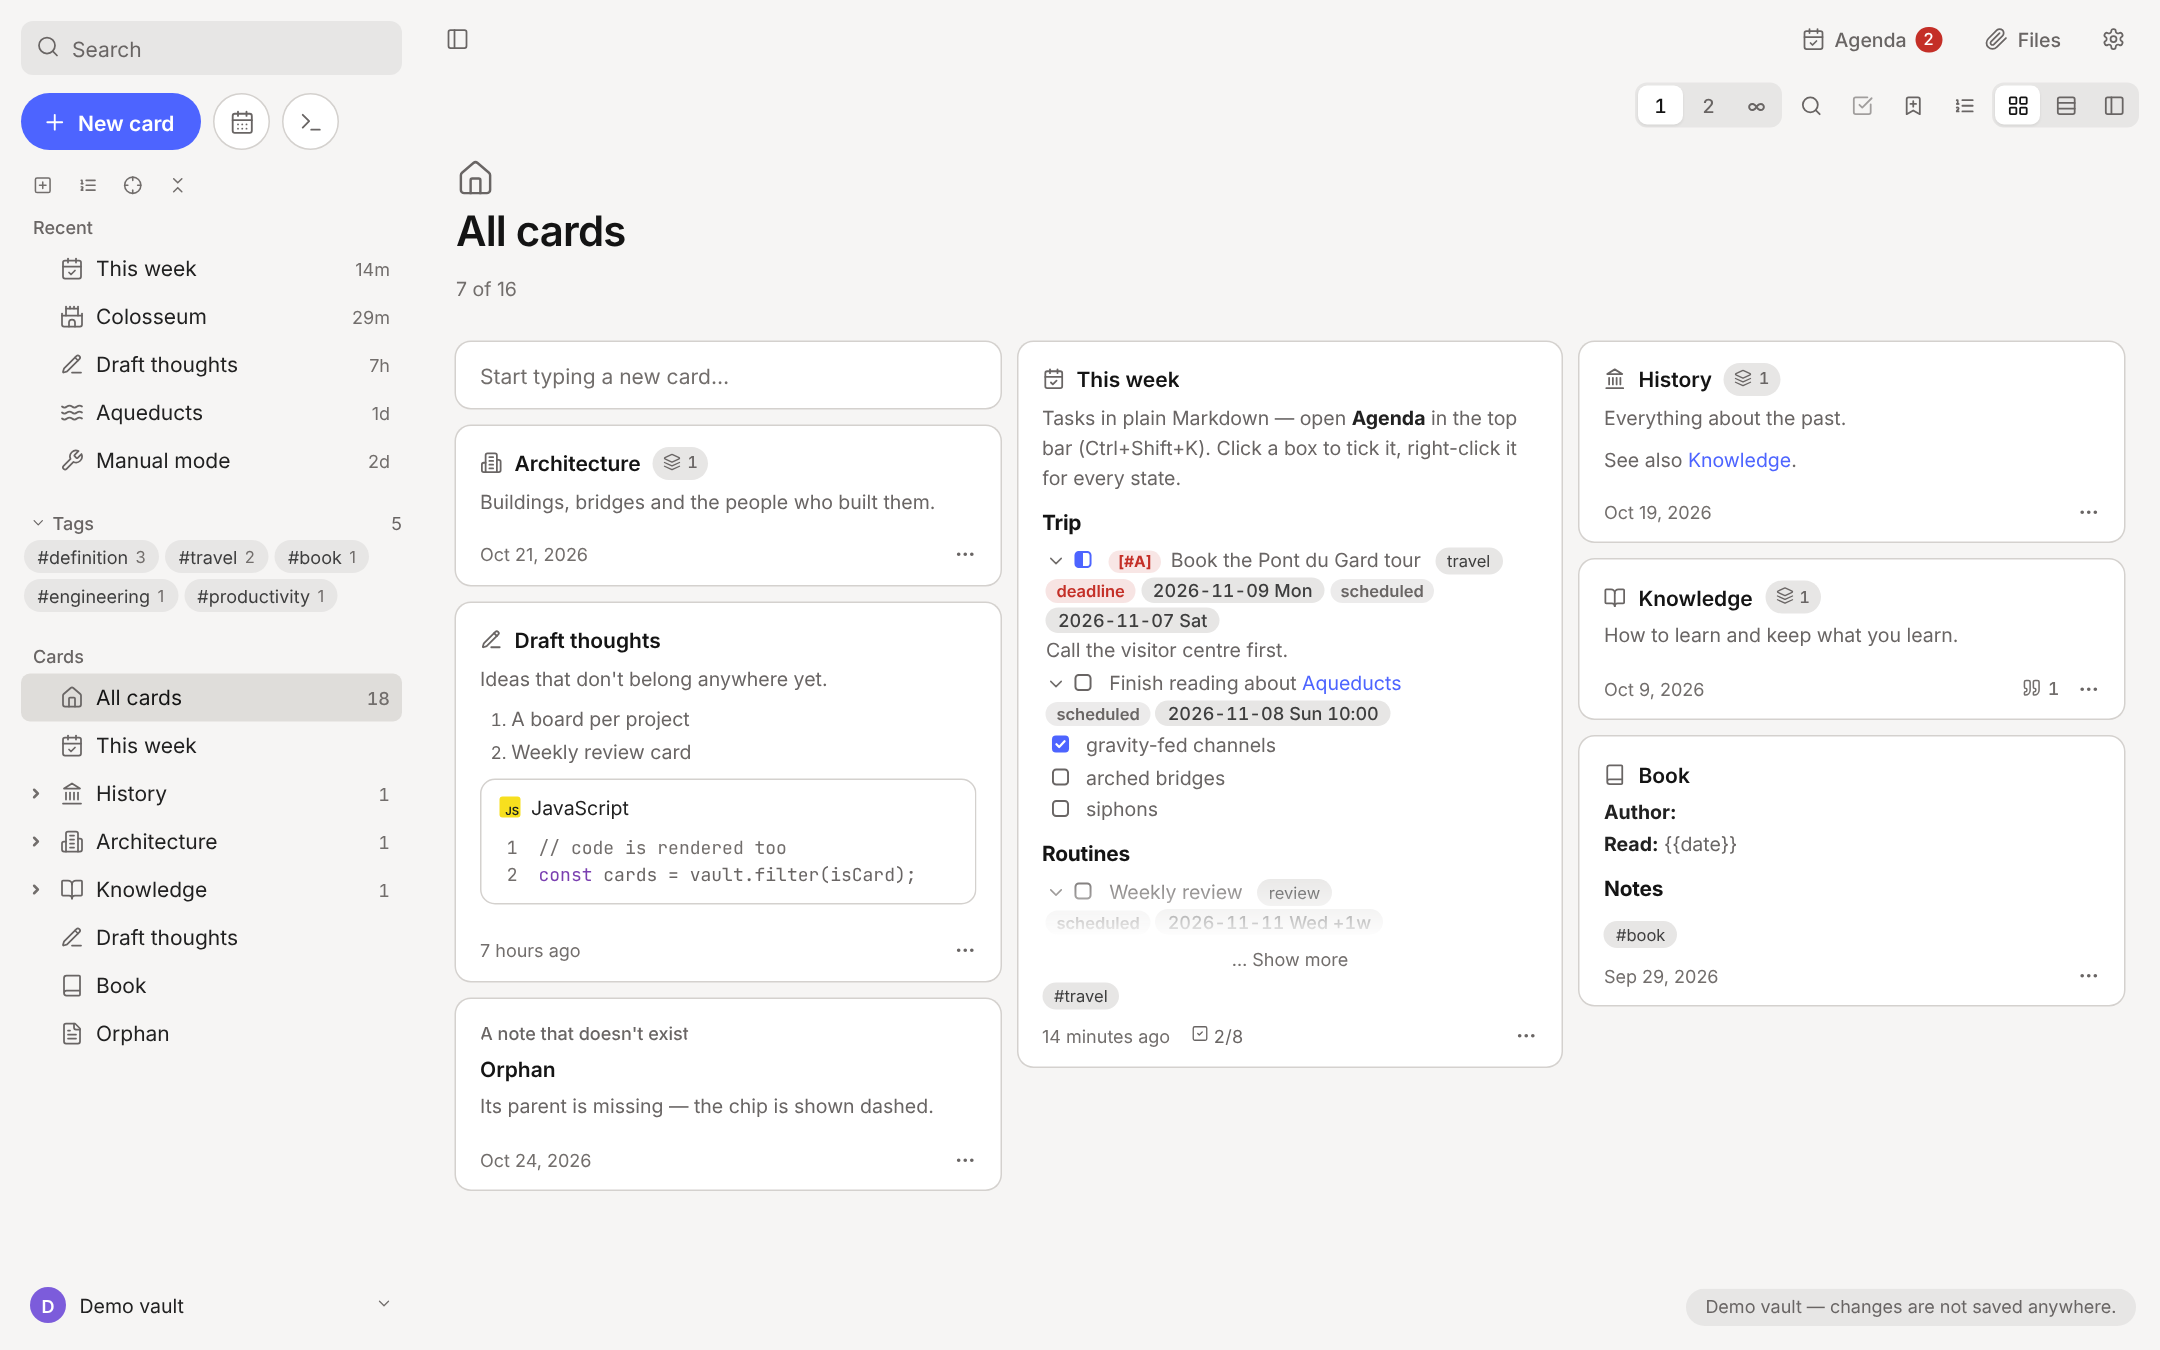
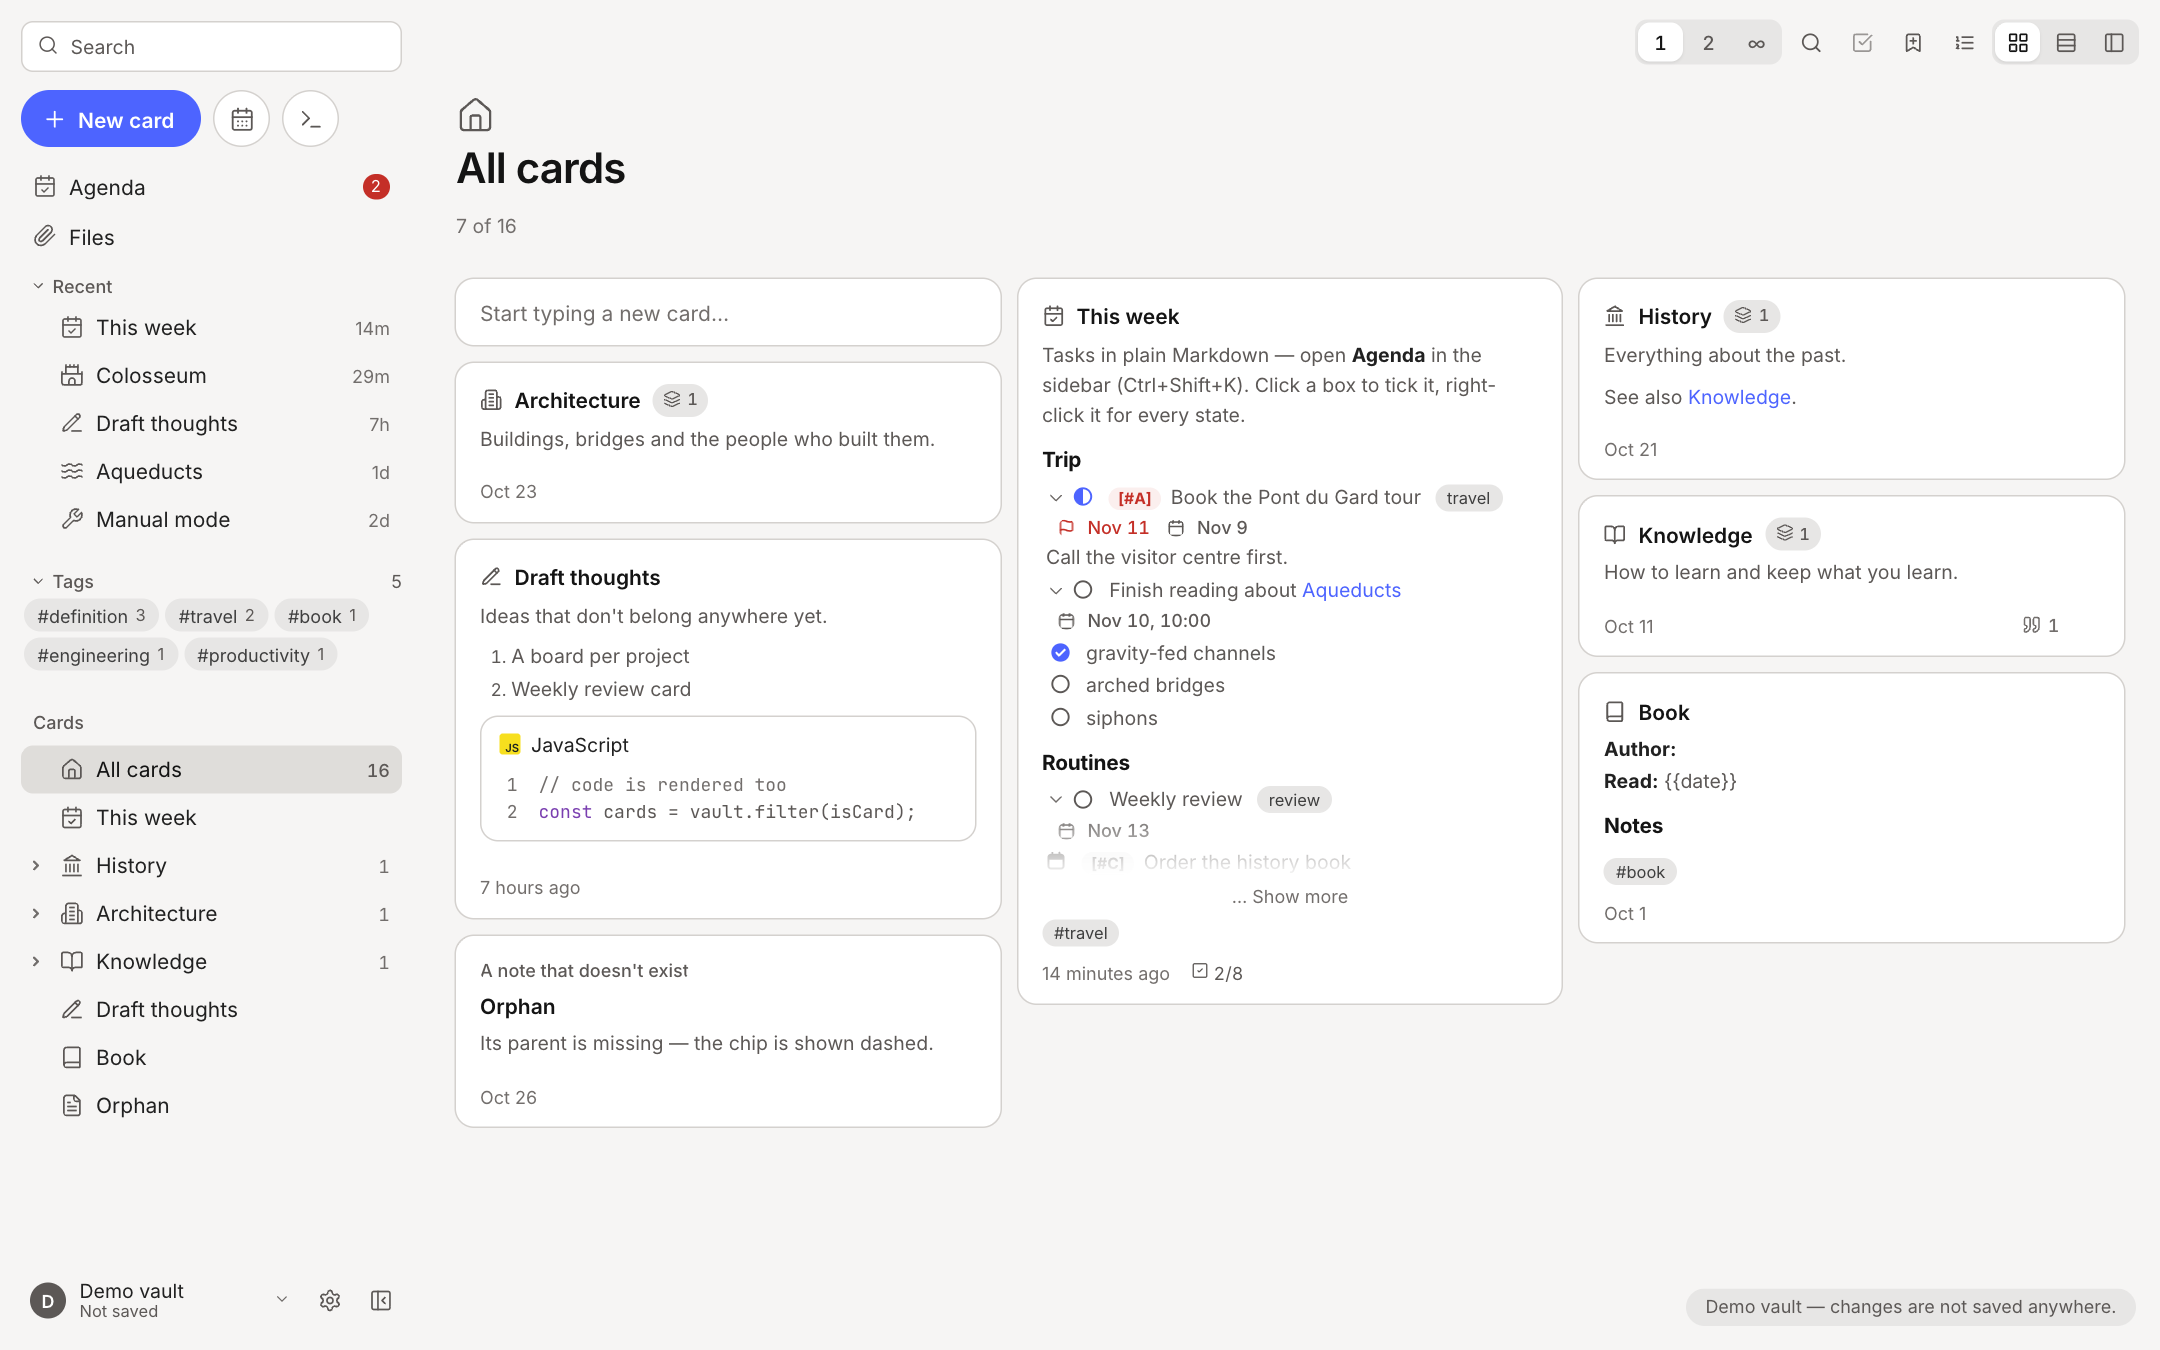
Retake the README screenshots for the new layout
The screenshots show the sidebar without a top bar, the shorter dates
and the new agenda rows. The README and the demo's "This week" card no
longer point to a top bar, and Settings is described as it is now.

diff --git a/web/src/js/ui/welcome.js b/web/src/js/ui/welcome.js
@@ -62,7 +62,7 @@ export function demoVault() {
   note("Back-of-napkin math", `parents:\n  - "[[Terms]]"\nicon: calculator\ntags: [definition]`, `A rough estimate that's good enough to decide whether an idea is worth a closer look.\n\n==Order of magnitude beats precision.==`, 7);
   const day = (n) => { const d0 = new Date(now + n * 86400000); return `${d0.getFullYear()}-${String(d0.getMonth() + 1).padStart(2, "0")}-${String(d0.getDate()).padStart(2, "0")}`; };
   const dts = (n, extra = "") => { const d0 = new Date(now + n * 86400000); return `${day(n)} ${["Sun", "Mon", "Tue", "Wed", "Thu", "Fri", "Sat"][d0.getDay()]}${extra}`; };
-  note("This week", `icon: calendar-check\ncolor: green\norder: 0\ncategory: Week`, `Tasks in plain Markdown — open **Agenda** in the top bar (Ctrl+Shift+K). Click a box to tick it, right-click it for every state.\n\n## Trip\n\n- [/] [#A] Book the Pont du Gard tour :travel:\n  DEADLINE: <${dts(1)}> SCHEDULED: <${dts(-1)}>\n  Call the visitor centre first.\n- [ ] Finish reading about [[Aqueducts]]\n  SCHEDULED: <${dts(0, " 10:00")}>\n  - [x] gravity-fed channels\n  - [ ] arched bridges\n  - [ ] siphons\n\n## Routines\n\n- [ ] Weekly review :review:\n  SCHEDULED: <${dts(3)} +1w>\n- [<] [#C] Order the history book\n- [>] Plan the Rome trip (moved to next month)\n- [-] Renew the old museum pass\n- [x] Set up this vault\n  CLOSED: [${dts(-2, " 18:20")}]\n\n## Calendar\n\n- Lunch with Marta <${dts(0, " 13:00-14:00")}>\n- Museum night <${dts(2, " 19:30")}> #travel\n`, 0.01);
+  note("This week", `icon: calendar-check\ncolor: green\norder: 0\ncategory: Week`, `Tasks in plain Markdown — open **Agenda** in the sidebar (Ctrl+Shift+K). Click a box to tick it, right-click it for every state.\n\n## Trip\n\n- [/] [#A] Book the Pont du Gard tour :travel:\n  DEADLINE: <${dts(1)}> SCHEDULED: <${dts(-1)}>\n  Call the visitor centre first.\n- [ ] Finish reading about [[Aqueducts]]\n  SCHEDULED: <${dts(0, " 10:00")}>\n  - [x] gravity-fed channels\n  - [ ] arched bridges\n  - [ ] siphons\n\n## Routines\n\n- [ ] Weekly review :review:\n  SCHEDULED: <${dts(3)} +1w>\n- [<] [#C] Order the history book\n- [>] Plan the Rome trip (moved to next month)\n- [-] Renew the old museum pass\n- [x] Set up this vault\n  CLOSED: [${dts(-2, " 18:20")}]\n\n## Calendar\n\n- Lunch with Marta <${dts(0, " 13:00-14:00")}>\n- Museum night <${dts(2, " 19:30")}> #travel\n`, 0.01);
   note("Cycle A", `parents:\n  - "[[Cycle B]]"\ncolor: red\nicon: refresh-cw`, `Cards A and B are each other's parents. Depth ∞ must not hang.`, 10);
   note("Cycle B", `parents:\n  - "[[Cycle A]]"\nicon: refresh-ccw`, `The other half of the cycle.`, 10);
   note("Orphan", `parents:\n  - "[[A note that doesn't exist]]"\ncolor: grey`, `Its parent is missing — the chip is shown dashed.`, 15);

diff --git a/web/src/js/ui/agenda.js b/web/src/js/ui/agenda.js
@@ -112,7 +112,7 @@ export function renderTasksView(root) {
   const all = orgAll();
   if (AG.anchor == null) AG.anchor = T;
 
-  // top bar
+  // the view's own bar
   const bar = h("div", { cls: "sn-topbar" });
   const back = iconBtn("arrow-left", t("back"), () => goBack()); back.disabled = !board.history.length;
   bar.append(h("div", { cls: "sn-nav" }, sideToggle(), back));

diff --git a/README.md b/README.md
@@ -109,17 +109,17 @@ Supstack shows a folder of Markdown notes (a *vault*) as a board of nested cards
 - `Ctrl+O` opens any card by name; `Ctrl+P` opens the command list.
 
 ### Sync
-- **Git sync:** the vault folder is a git repository. **Sync now** (or the automatic sync, after edits and every few minutes) commits your changes, merges the remote branch and pushes. Set the remote URL (HTTPS) and a personal access token in the sync button's panel.
+- **Git sync:** the vault folder is a git repository. **Sync now** (or the automatic sync, after edits and every few minutes) commits your changes, merges the remote branch and pushes. Set the remote URL (HTTPS) and a personal access token in **Settings › Git**; once sync is set up, the *Git* row in the sidebar shows its state and opens it.
 - If a note changed on two devices, your text stays in place and the other version is saved next to it as `Note (conflict …).md`, so nothing is lost.
 - The access token is never in the vault, so it is never committed or copied with the folder: on Windows and macOS it is kept in the system's keychain (Credential Manager, Keychain), on Android in the app's private storage. A `.gitignore` is created on the first sync for `.trash` and temporary files.
 - On Android the repository lives in the app's private storage and is copied to and from the folder you picked on every sync, so the vault takes up space twice there.
 
 ### Look and keyboard
-- A full-height sidebar with search, a blue *New card* button and the vault at the bottom; Inter type, white cards on warm grey.
+- No top bar: a full-height sidebar holds search, a blue *New card* button, the agenda, Files and Git sync, and the vault and settings at the bottom; it folds away and each view's own bar brings it back. Inter type, white cards on warm grey.
 - Light and dark themes; English and Russian interface.
 - Emacs-flavoured details: a mode line under each board (layout, depth, sort, card count) and a minibuffer with key hints. Most actions have shortcuts. Org-style `C-c` chords work in the editor, for example `C-c C-t` to step a task's state and `C-c C-s` / `C-c C-d` to schedule or set a deadline.
 - On phones the layout switches to a single column, the side tree becomes a drawer, and the Android **Back** button closes the editor, menus and dialogs before leaving the app.
-- **Settings** has a tab per group: Appearance, Cards, Board, Git (in the app) and About, which shows the version and checks for updates.
+- **Settings** has a section per group: Appearance (language, theme, the board's defaults and its cards), Keyboard shortcuts, Git (in the app) and About, which shows the version and checks for updates.
 
 ### Updates
 - The Windows and macOS apps check GitHub Releases when they start and twice a day. When a new version is out, a note appears in the minibuffer. **Settings → About → Install and restart** downloads it, checks its signature, installs it and restarts the app. Nothing is installed without asking, and the automatic check can be turned off there.
